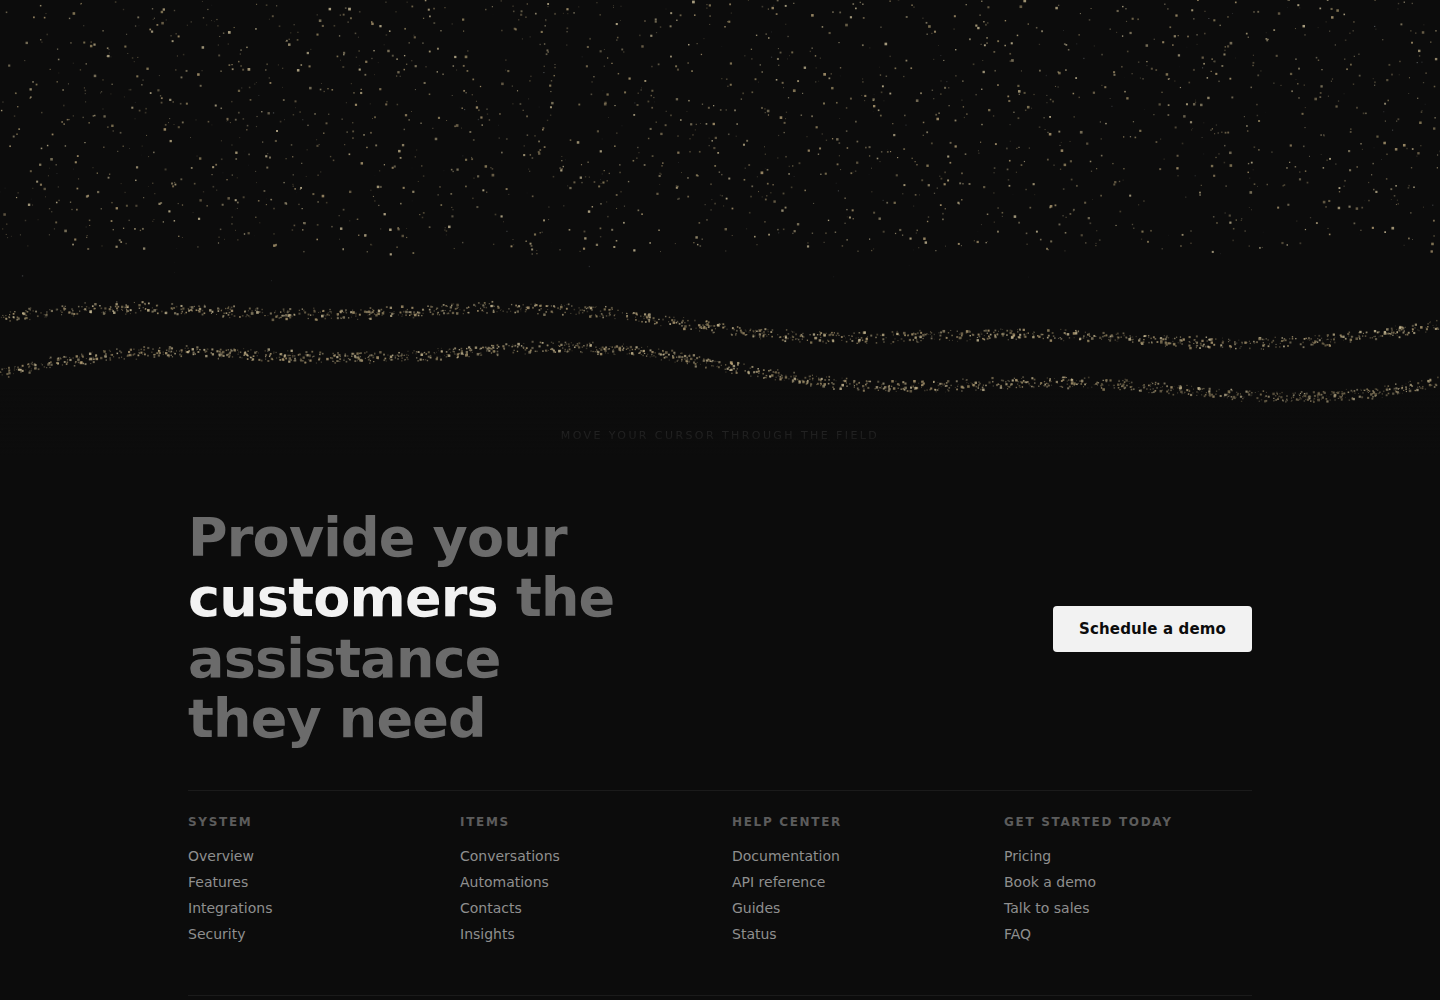
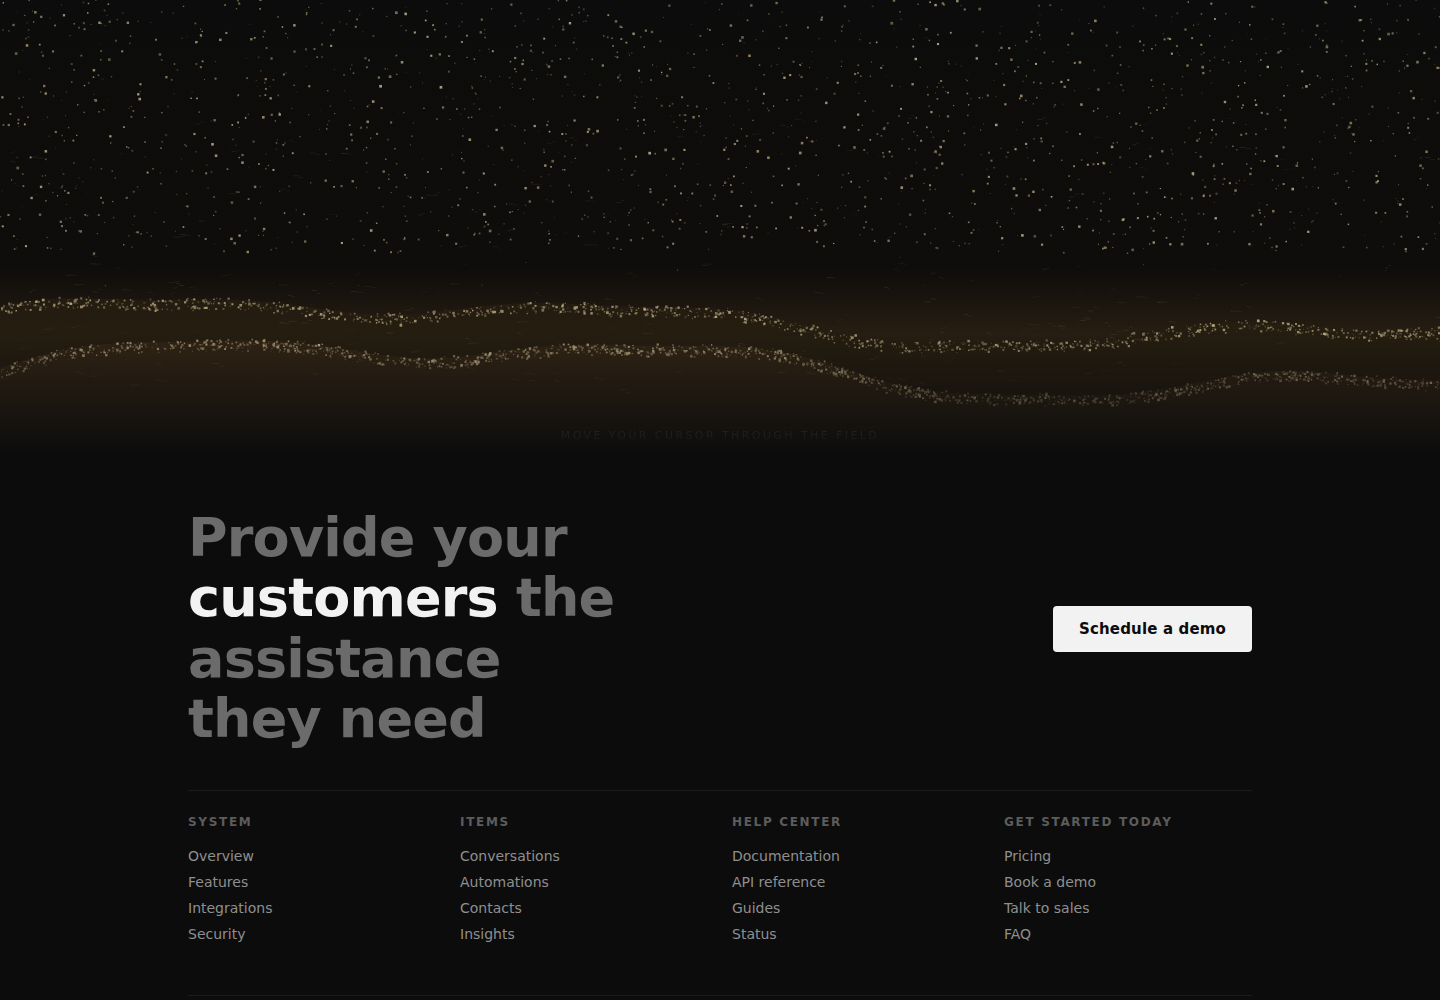
build: ACQUIRE particle footer desert-wind layer (dusk dunes, gust envelope, saltation, plucked grains, cloth lean) + active-environments inbox capture

Changed region(s): [[0.0, 0.279, 1.0, 0.403]]

diff --git a/03-Resources/Design/Web-Garnish/demos/acquire-particle-footer/index.html b/03-Resources/Design/Web-Garnish/demos/acquire-particle-footer/index.html
@@ -14,11 +14,11 @@
   #scene { position:absolute; inset:0; width:100%; height:100%; display:block; }
   .scene::after {
     content:""; position:absolute; inset:0; pointer-events:none;
-    background:linear-gradient(to bottom, transparent 84%, #0c0c0c 99%);
+    background:linear-gradient(to bottom, transparent 72%, #0c0c0c 99%);
   }
   .hint {
     position:absolute; bottom:18px; left:50%; transform:translateX(-50%);
-    font-size:11px; letter-spacing:.22em; text-transform:uppercase; color:#4c4c4c;
+    font-size:11px; letter-spacing:.22em; text-transform:uppercase; color:#756f66;
     pointer-events:none; transition:opacity .6s ease;
   }
   .hint.gone { opacity:0; }
@@ -159,6 +159,13 @@
     for (var i = 0; i < 110; i++) {
       stars.push({ x: Math.random() * W, y: Math.random() * H * 0.62, r: .4 + Math.random() * .9, ph: Math.random() * 6.92, sp: .4 + Math.random() * 1.1 });
     }
+    streaks = [];
+    for (var s2 = 0; s2 < 240; s2++) {
+      var sy2 = Math.random() < 0.7
+        ? duneTopY(Math.random() * W, Math.random() < 0.5 ? 0 : 0.10, 1.0) - Math.random() * 26  // saltation band
+        : H * (0.25 + Math.random() * 0.35);                                                    // air haze
+      streaks.push({ x: Math.random() * W, y: sy2, len: 5 + Math.random() * 7, sp: 55 + Math.random() * 85, al: 0.04 + Math.random() * 0.08, wob: Math.random() * 6.28, arc: 0.6 + Math.random() * 1.4 });
+    }
     particles = [];
     var budget = Math.min(5200, Math.max(2600, Math.round(W * 3.4)));
     for (var j = 0; j < budget; j++) particles.push(makeParticle(true));
@@ -166,8 +173,12 @@
 
   function duneTopY(x, depth, amp) {
     var t0 = H * (0.80 - depth), s = H / 520;
-    var A = (24 + 26 * amp) * s * .5, B = (10 + 8 * amp) * s * .5, C = 6 * s * .5;
-    return t0 - A * Math.sin(x * .004 + depth * 3.1) - B * Math.sin(x * .013 + depth * 5.7) - C * Math.sin(x * .0011 + depth * 7.3);
+    var A = (26 + 30 * amp) * s * .5, B = (16 + 14 * amp) * s * .5,
+        C = 7 * s * .5, D = 8 * s * .5;
+    return t0 - A * Math.sin(x * .004 + depth * 3.1)
+             - B * Math.sin(x * .011 + depth * 5.7)
+             - C * Math.sin(x * .026 + depth * 9.4)
+             - D * Math.sin(x * .0011 + depth * 7.3);
   }
 
   function makeParticle(scatter) {
@@ -188,7 +199,10 @@
       tone: sandTones[(Math.random() * 6) | 0],
       seed: Math.random(),
       joins: Math.random() < 0.80,
-      target: null
+      target: null,
+      hf: 0.5,          // height fraction on the shape (1 = head, 0 = feet)
+      pluck: 0,         // frames left streaming as a plucked grain
+      pvx: 0, pvy: 0
     };
   }
 
@@ -213,6 +227,7 @@
     for (var a = 0; a < order.length && a < joiners.length; a++) {
       var sp = shape[order[a]];
       particles[joiners[a]].target = { x: sp.sx, y: sp.sy };
+      particles[joiners[a]].hf = 1 - sp.y; // sp.y normalized 0=top
     }
   }
 
@@ -234,6 +249,45 @@
     return null;
   }
 
+  /* ---------- desert wind ---------- */
+  var streaks = [];
+
+  // gust envelope: slow surges + fast flutter; 0.35..1.3, never calm, never storm
+  function windAt(time) {
+    var surge = Math.pow(0.5 + 0.5 * Math.sin(time * 0.35), 2);          // ~18s breathing
+    var flutter = 0.5 + 0.5 * Math.sin(time * 2.3 + Math.sin(time * 0.8) * 1.5);
+    return 0.35 + surge * 0.75 + flutter * 0.2;
+  }
+
+  // static desert backdrop: dusk sky + dune masses + horizon glow (also used by reduced-motion)
+  function drawBackdrop() {
+    var sky = ctx.createLinearGradient(0, 0, 0, H);
+    sky.addColorStop(0, "#0c0c0c");
+    sky.addColorStop(0.58, "#0f0d0b");
+    sky.addColorStop(0.82, "#221a10");   // warm haze low over the dunes
+    sky.addColorStop(1, "#161209");
+    ctx.globalAlpha = 1;
+    ctx.fillStyle = sky;
+    ctx.fillRect(0, 0, W, H);
+    // dusk glow riding the far crest
+    var glow = ctx.createLinearGradient(0, H * 0.60, 0, H * 0.80);
+    glow.addColorStop(0, "rgba(140,100,55,0)");
+    glow.addColorStop(0.65, "rgba(150,108,58,0.10)");
+    glow.addColorStop(1, "rgba(140,100,55,0)");
+    ctx.fillStyle = glow;
+    ctx.fillRect(0, H * 0.60, W, H * 0.20);
+    // dune bodies: warm dark masses below each crest (far first, near over it)
+    var dunes2 = [{ depth: 0.10, amp: 0.5, fill: "rgba(38,29,17,0.85)" },
+                  { depth: 0.0, amp: 1.0, fill: "rgba(52,39,23,0.80)" }];
+    for (var d = 0; d < 2; d++) {
+      var du = dunes2[d];
+      ctx.beginPath(); ctx.moveTo(0, H);
+      for (var x = 0; x <= W; x += 6) ctx.lineTo(x, duneTopY(x, du.depth, du.amp));
+      ctx.lineTo(W, H); ctx.closePath();
+      ctx.fillStyle = du.fill; ctx.fill();
+    }
+  }
+
   /* ---------- frame ---------- */
   function frame() {
     if (!running) return;
@@ -243,6 +297,7 @@
     if (hoverProg > 0.02) hint.classList.add("gone");
 
     ctx.clearRect(0, 0, W, H);
+    drawBackdrop();
 
     // stars
     for (var s = 0; s < stars.length; s++) {
@@ -262,12 +317,42 @@
       var env = Math.max(0, Math.sin((cyc / 3) * Math.PI));
       var env2 = env * env;
 
+      var wind = windAt(t);
       var tx = p.home.x, ty = p.home.y, boost = 1;
+
+      // plucked grain: blown off the shape mid-gust, streams downwind, respawns at post
+      if (p.pluck > 0) {
+        p.pluck--;
+        p.pos.x += p.pvx * (0.6 + wind * 0.7);
+        p.pos.y += p.pvy;
+        p.pvy += 0.045;
+        ctx.globalAlpha = Math.min(1, 0.5 * p.pluck / 30) * (0.4 + env2 * 0.4);
+        ctx.fillStyle = "#d8c9a3";
+        ctx.fillRect(p.pos.x, p.pos.y, 4.5, 1); // streak while airborne
+        if (p.pluck === 0) {
+          p.pos.x = p.target ? p.target.x : p.home.x;
+          p.pos.y = p.target ? p.target.y : p.home.y;
+        }
+        continue;
+      }
+      // gusts occasionally pluck grains off the formed pair (sand blowing off the figures)
+      if (p.joins && p.target && hoverProg > 0.6 && Math.random() < wind * 0.0022) {
+        p.pluck = 30 + (Math.random() * 40) | 0;
+        p.pvx = 2.5 + Math.random() * 3.5;
+        p.pvy = -(0.2 + Math.random() * 0.5);
+        continue;
+      }
+
       if (p.joins && p.target && hoverProg > 0.01) {
         var hp2 = hoverProg * hoverProg;
         tx = p.home.x + (p.target.x - p.home.x) * hp2;
         ty = p.home.y + (p.target.y - p.home.y) * hp2;
+        // wind: gusty downstream lean, stronger toward the heads (cloth-like ripple)
+        tx += wind * (1.2 + 2.8 * Math.sin(t * 1.7 + p.seed * 9.4)) * (0.35 + 0.65 * p.hf);
         boost = 1 + 0.5 * hoverProg;
+      } else {
+        // idle field: crests stream downwind (dunes migrating)
+        tx += wind * (1.0 + 1.6 * Math.sin(t * 0.5 + p.seed * 6.28)) * 0.9;
       }
       // wander
       var wob = Math.sin(t * .8 + p.seed * 12.56) * 1.4;
@@ -280,6 +365,26 @@
       ctx.globalAlpha = Math.min(1, al);
       ctx.fillStyle = p.tone;
       ctx.fillRect(p.pos.x - sz / 2, p.pos.y - sz / 2, sz, sz);
+    }
+
+    // saltation: thin wind streaks OVER the picture (the scanty moving layer)
+    for (var k3 = 0; k3 < streaks.length; k3++) {
+      var sk = streaks[k3];
+      sk.x += sk.sp * (0.45 + windAt(t) * 0.9) * 0.016;
+      if (sk.x - sk.len > W) {
+        sk.x = -sk.len - Math.random() * 60;
+        sk.y = Math.random() < 0.7
+          ? duneTopY(Math.random() * W, Math.random() < 0.5 ? 0 : 0.10, 1.0) - Math.random() * 26
+          : H * (0.25 + Math.random() * 0.35);
+      }
+      var yy = sk.y + Math.sin(t * 3 + sk.wob) * 1.2;
+      // slight arc: two short segments with a curl instead of a flat dash
+      var bend = Math.sin(t * 2.2 + sk.wob) * sk.arc;
+      ctx.globalAlpha = sk.al * (0.30 + windAt(t) * 0.55);
+      ctx.fillStyle = "#d8c9a3";
+      ctx.fillRect(sk.x, yy - bend, sk.len * 0.55, 1);
+      ctx.globalAlpha *= 0.75;
+      ctx.fillRect(sk.x + sk.len * 0.55, yy + bend * 0.7, sk.len * 0.45, 1);
     }
 
     ctx.globalAlpha = 1;
@@ -310,6 +415,7 @@
       particles[k].pos.y = particles[k].home.y;
     }
     ctx.clearRect(0, 0, W, H);
+    drawBackdrop();
     for (var k2 = 0; k2 < particles.length; k2++) {
       var p2 = particles[k2];
       ctx.globalAlpha = 0.5;

diff --git a/00-Inbox/2026-09-13_active-particle-environments.md b/00-Inbox/2026-09-13_active-particle-environments.md
@@ -1,0 +1,68 @@
+---
+title: Active Particle Environments
+date: 2026-09-13
+tags:
+  - inbox
+  - design
+  - particles
+  - footer
+  - motion
+---
+
+# Active Particle Environments
+
+> Quick capture of Victor's bigger-picture idea, expanded a lil. Process later.
+
+## The idea (raw)
+
+The ACQUIRE handshake footer is step one. If a particle system can hold a structure while wind blows through it (dudes shaking hands, particles flowing across the screen but keeping their general structure — just like a windy desert), then the same engine can make **whole environments alive**:
+
+- **Trees sway** — branch-level skeletons bending under a wind field
+- **People work** — looping work cycles (hammering, typing, carrying) as sampled animation frames
+- **Birds fly** — small flocks crossing the scene on flight-path bands
+- **Billboard pictures move** — animated masks on a wall in the scene
+- So many possibilities
+
+## Why this works (the unifying mechanic)
+
+Every scene in this family decomposes into three layers. Same engine, different inputs:
+
+1. **Structure mask** — *what you see*. A silhouette, glyph, or animation frame sampled into particle home-points (the handshake pair did this; a tree, a worker mid-swing, a bird does it identically).
+2. **Force field** — *how it moves*. Wind profiles, gravity, cursor-as-gust, scroll parallax, audio-reactive turbulence. The force perturbs particles but never breaks the mask: `spring-to-home + force offset`, so structure always relaxes back (antigravity.google's "homes + relaxation, not attraction" rule).
+3. **Churn** — *the medium replaces itself*. Per-particle life cycle: spawn, drift, die, respawn. The picture becomes a standing wave, like a dune: sand moves, dune holds shape.
+
+Add wind to the handshake and you have proof the concept survives its first force. Add a second force (cursor) and a second mask (tree) and it's an environment.
+
+## Scene menu (candidates for first prototypes)
+
+| Scene | Mask source | Force profile | Difficulty |
+|---|---|---|---|
+| Windy handshake (current) | generated silhouette pair | lateral wind + gusts | done / tuning |
+| Swaying tree | generated tree silhouette, branch segmentation | height-weighted wind (canopy > trunk) | medium |
+| Working figure loop | sampled frames of a work cycle | gravity + tool-impact pulses | medium-high (needs frame sync) |
+| Bird flock band | tiny bird glyph, per-bird phase offset | flight path + flock cohesion (boids-lite) | low-medium |
+| Animated billboard | text/logo frames on a wall region | frame-swap on hover or timer | low |
+
+## Force vocabulary to steal from
+
+- **Gust envelope**: slow `sin²` surges + fast flutter layered = believable wind without noise
+- **Saltation**: grains stream in a band just above the crest/surface line (real desert physics, reads instantly as "windy")
+- **Cursor-as-wind**: pointer velocity becomes a local gust source (matches the footer hover philosophy; see Effects_Glossary antigravity entries)
+- **Directional lean with variance**: per-particle fixed lean magnitude = structure streams downwind without dissolving
+- **Scanty skiff layer**: sparse fast streaks OVER a stable picture — wind you can see without losing the subject
+
+## Where it connects in the vault
+
+- [[03-Resources/Tools/Effects_Glossary|Effects_Glossary]] — antigravity GPGPU swarm + morph-field entries (the mechanics reference)
+- [[03-Resources/Design/Web-Garnish/09-Particle-Footer|09-Particle-Footer]] — the working handshake build (wind layer being added now)
+- [[03-Resources/Design/Web-Garnish/07-Build-Runbook|07-Build-Runbook]] — motion-layer rule (off-viewport pause, reduced-motion death, screenshot test)
+- FOOTER-1 mascot track (06-Agent-Sessions) — the cursor-reactive philosophy, different family
+
+## Open decisions (later, not now)
+
+1. First environment prototype after the footer: tree sway vs bird flock (bird is cheaper, tree is more impressive).
+2. Does the cursor stay a "reveal/morph" trigger, or become a wind source too? (Could be both: hover reveals, movement blows.)
+3. Canvas 2D ceiling: fine to ~5k particles per scene layer; past that, graduate to the GPGPU engine.
+4. Where this lands: Web-Garnish collection extension, or its own "Living Scenes" project?
+
+**Tags:** #inbox #design #particles #footer #motion

diff --git a/CHANGELOG.md b/CHANGELOG.md
@@ -6,6 +6,11 @@ The format is based on [Keep a Changelog](https://keepachangelog.com/en/1.1.0/).
 
 ## [Unreleased]
 
+### 2026-09-13 — Web-Garnish: desert-wind layer on the ACQUIRE particle footer
+
+- `demos/acquire-particle-footer/` — windy-desert pass: dusk backdrop with warm horizon haze + layered dune masses, gust envelope (18s surges + flutter), saltation streaks (short two-segment curls riding the crests), grains plucked off the formed pair mid-gust and streaming downwind, height-weighted wind lean (figures ripple like cloth, hold structure). Previews refreshed (hover + idle).
+- `00-Inbox/2026-09-13_active-particle-environments.md` — Victor's bigger-picture capture: structure-mask + force-field + churn engine applied to whole environments (swaying trees, working figures, bird flocks, animated billboards); scene menu + force vocabulary; open decisions parked.
+
 ### 2026-09-13 — Web-Garnish: ACQUIRE particle footer rebuilt as antigravity morph-field (v2)
 
 - [[03-Resources/Design/Web-Garnish/09-Particle-Footer|09-Particle-Footer]] — v2 recipe: silhouette-sampled handshake pair replaces stickman; interaction model moved to the Effects_Glossary "Morphing particle field" mechanics (permanent homes, 3s life cycle, hoverProgress² assembly, 25% non-joiners). Pitfalls documented (nearest-home assignment starvation, per-axis bbox squash, aura artifact, clip-art busts, virtual-time screenshot lies).

diff --git a/03-Resources/Design/Web-Garnish/09-Particle-Footer.md b/03-Resources/Design/Web-Garnish/09-Particle-Footer.md
@@ -37,6 +37,8 @@ Real design: **ACQUIRE** (chat/automation SaaS) dark footer. Two human silhouett
 
 **Working build**: `demos/acquire-particle-footer/index.html` (+ `preview.png` = hover state, `preview-idle.png` = resting field).
 
+**Wind layer (v2.1)**: gust envelope `0.35–1.3` (slow sin² surges ~18s + fast flutter — never calm, never storm); height-weighted downstream lean `wind·(1.2+2.8·sin)·(0.35+0.65·heightFraction)` so the pair streams like cloth; plucked grains (streak 4.5×1px, gravity 0.045, respawn at post) at `wind·0.0022`/frame; saltation streaks in a 26px band above the crests + air haze above. Dunes got a mid-frequency harmonic (`x·0.011`) + third (`x·0.026`) so ridges roll instead of reading flat. Bigger picture (environments: trees sway, people work, birds fly, billboards move) captured in [[00-Inbox/2026-09-13_active-particle-environments|00-Inbox/2026-09-13_active-particle-environments]].
+
 **v1 recipe (static stickman, kept for reference)**: offscreen canvas drew capsule-limb figures, sampled lit pixels → home targets, grains lerp in + jitter; reads as stickmen — superseded by the silhouette-sampling v2 above.
 
 **Cheap variant (static)** — SVG `feTurbulence` grain (see [[07-Build-Runbook]] §grain) clipped to the word/phrase, sand fill on near-black. Same vibe, zero JS, no motion.
